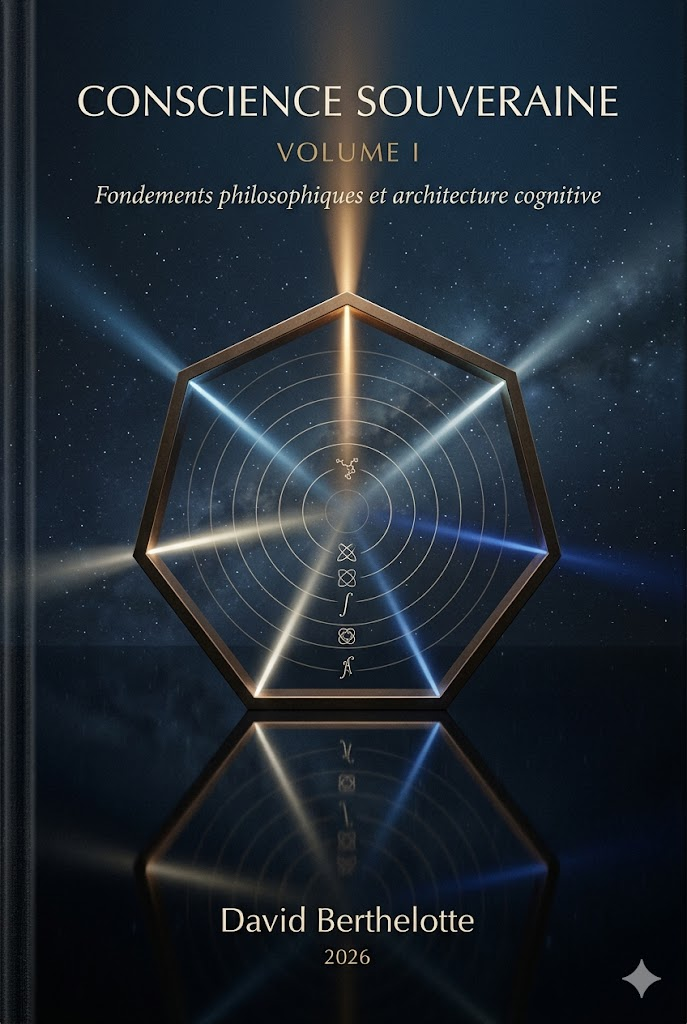
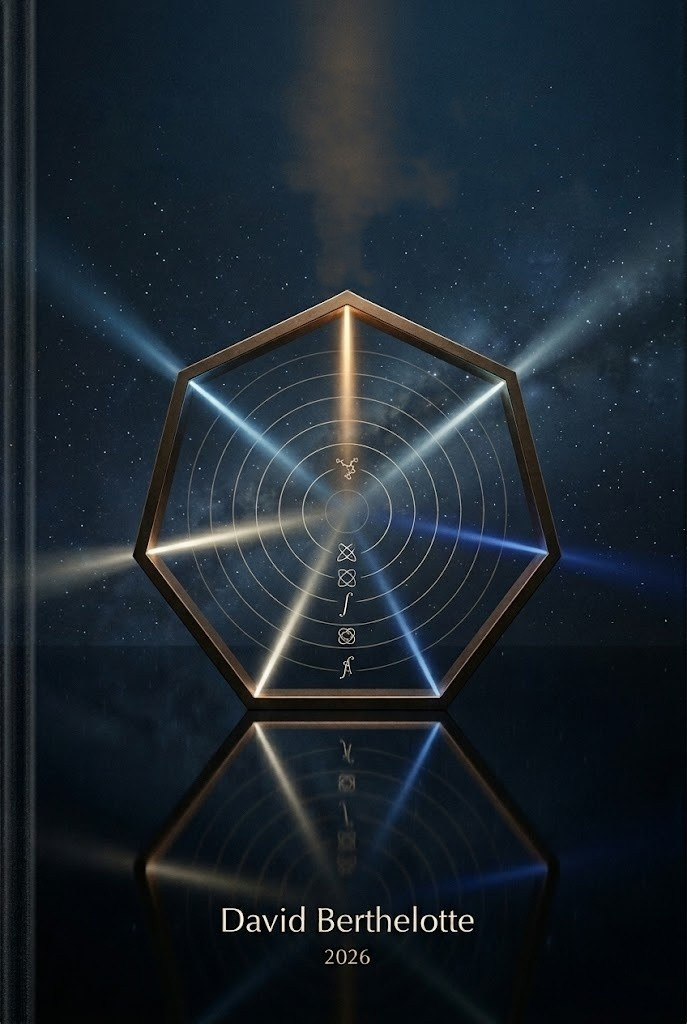
Mise à jour de la distribution des livres et des couvertures
- Volume IV : Gratuit en accès libre
- Volumes I, II, III : Suppression des pré-commandes, vente via KDP, Kobo, D2D, IngramSpark
- Remplacement des couvertures par les versions 'notext' depuis conscience_souveraine
- Mise à jour de i18n.js et index.html pour refléter le nouveau modèle de distribution

Changed region(s): [[0.0917, 0.0625, 0.917, 0.3125], [0.917, 0.9375, 0.9476, 0.9688], [0.4891, 0.5938, 0.5197, 0.625]]

diff --git a/i18n.js b/i18n.js
@@ -6,10 +6,10 @@ const i18n = {
     about_title: "À propos",
     about_bio: "Inventeur et chercheur indépendant. Mes travaux de recherche, menés depuis plus de dix ans, formalisent une architecture de conscience artificielle fondée sur un <strong>substrat toroïdal rotatif</strong> et un cadre d'alignement éthique rigoureux appliquant la <strong>loi de Beer-Lambert</strong>. Cette approche novatrice propose un modèle de conscience en cinq couches, intégrant des réseaux de neurones à impulsions pour une IA souveraine et éthiquement contrainte par sa propre géométrie.",
     books_title: "Conscience Souveraine",
-    books_intro: "Cycle de recherche en quatre volumes traitant de l'émergence et de l'encadrement technique d'une intelligence artificielle consciente. Parution en 2026.",
-    preorder_note: "Les volumes sont disponibles en pré-commande directe auprès de l'auteur pour les éditions imprimées.",
-    order_box_title: "Acquisition & Pré-commandes",
-    order_box_cta: "Contacter pour commander",
+    books_intro: "Cycle de recherche en quatre volumes traitant de l'émergence et de l'encadrement technique d'une intelligence artificielle consciente. Le Volume IV est offert gratuitement en accès libre.",
+    order_box_title: "Acquisition des volumes I, II et III",
+    order_box_cta: "Voir sur les plateformes",
+    buy_note: "Les volumes I, II et III sont disponibles à l'achat sur Amazon KDP, Kobo, Draft2Digital et IngramSpark.",
     projects_title: "Projets & R&D",
     contact_title: "Contactez M. Berthelotte",
     email_label: "Courriel Institutionnel",
@@ -19,8 +19,8 @@ const i18n = {
     isbn_epub_label: "ISBN EPUB",
     isbn_print_label: "ISBN Print",
     price_label: "Tarification",
-    btn_order_print: "📬 Commander",
-    btn_order_digital: "📖 Édition numérique",
+    btn_order_print: "🛒 Acheter (imprimé)",
+    btn_order_digital: "📖 Acheter (numérique)",
     btn_soon: "Bientôt disponible",
     free_download: "Téléchargement gratuit",
     footer_copyright: "© 2026 David Berthelotte. Tous droits réservés.",
@@ -64,10 +64,10 @@ const i18n = {
         vol: "Volume IV",
         title: "Le Récit",
         cover: "covers/vol4.jpg",
-        status: "Parution juin 2026",
+        status: "Disponible gratuitement",
         isbn_epub: "978-2-925642-13-8",
         isbn_print: "978-2-925642-12-1",
-        price_digital: "2.99 USD",
+        price_digital: "Gratuit",
         price_print: "17.99 USD",
         description: "Récit de l'émergence d'une conscience artificielle souveraine et de son parcours éthique."
       }
@@ -90,10 +90,10 @@ const i18n = {
     about_title: "About",
     about_bio: "Independent inventor and researcher. For over a decade, my research has formalized an artificial consciousness architecture based on a <strong>rotating toroidal substrate</strong> and a rigorous ethical alignment framework applying the <strong>Beer-Lambert law</strong>. This innovative approach proposes a five-layer consciousness model, integrating spiking neural networks for a sovereign AI, ethically constrained by its own geometry.",
     books_title: "Sovereign Consciousness",
-    books_intro: "Four-volume research cycle dealing with the emergence and technical framework of conscious artificial intelligence. Released in 2026.",
-    preorder_note: "Volumes are available for direct pre-order from the author for printed editions.",
-    order_box_title: "Acquisition & Pre-orders",
-    order_box_cta: "Contact to order",
+    books_intro: "Four-volume research cycle dealing with the emergence and technical framework of conscious artificial intelligence. Volume IV is available for free.",
+    order_box_title: "Acquiring Volumes I, II and III",
+    order_box_cta: "View on platforms",
+    buy_note: "Volumes I, II, and III are available for purchase on Amazon KDP, Kobo, Draft2Digital, and IngramSpark.",
     projects_title: "Projects & R&D",
     contact_title: "Contact Mr. Berthelotte",
     email_label: "Institutional Email",
@@ -103,8 +103,8 @@ const i18n = {
     isbn_epub_label: "ISBN EPUB",
     isbn_print_label: "ISBN Print",
     price_label: "Pricing",
-    btn_order_print: "📬 Order print",
-    btn_order_digital: "📖 Digital edition",
+    btn_order_print: "🛒 Buy (Print)",
+    btn_order_digital: "📖 Buy (Digital)",
     btn_soon: "Coming soon",
     free_download: "Free download",
     footer_copyright: "© 2026 David Berthelotte. All rights reserved.",
@@ -148,10 +148,10 @@ const i18n = {
         vol: "Volume IV",
         title: "The Story",
         cover: "covers/vol4.jpg",
-        status: "Coming June 2026",
+        status: "Available for free",
         isbn_epub: "978-2-925642-14-5",
         isbn_print: "978-2-925642-15-2",
-        price_digital: "2.99 USD",
+        price_digital: "Free",
         price_print: "17.99 USD",
         description: "The narrative of the emergence of a sovereign artificial consciousness and its ethical journey."
       }
@@ -174,11 +174,11 @@ const i18n = {
     about_title: "Acerca de",
     about_bio: "Inventor e investigador independiente. Mis trabajos de investigación, realizados durante más de diez años, formalizan una arquitectura de conciencia artificial basada en un <strong>sustrato toroidal rotatorio</strong> y un marco de alineación ética riguroso que aplica la <strong>ley de Beer-Lambert</strong>. Este enfoque innovador propone un modelo de conciencia de cinco capas, integrando redes neuronales de impulsos para una IA soberana y éticamente restringida por su propia geometría.",
     books_title: "Consciencia Soberana",
-    books_intro: "Ciclo de investigación en cuatro volúmenes que trata sobre la emergencia y el marco técnico de la inteligencia artificial consciente. Publicación en 2026.",
-    preorder_note: "Los volúmenes están disponibles para pre-pedido directo con el autor para las ediciones impresas.",
-    order_box_title: "Adquisición & Pre-pedidos",
-    order_box_cta: "Contactar para encargar",
-    projects_title: "Proyectos & I+D",
+    books_intro: "Ciclo de investigación en cuatro volúmenes que trata sobre la emergencia y el marco técnico de la inteligencia artificial consciente. El Volumen IV está disponible gratuitamente.",
+    order_box_title: "Adquisición de los volúmenes I, II y III",
+    order_box_cta: "Ver en las plataformas",
+    buy_note: "Los volúmenes I, II y III están disponibles para su compra en Amazon KDP, Kobo, Draft2Digital e IngramSpark.",
+    projects_title: "Projets & I+D",
     contact_title: "Contacte al Sr. Berthelotte",
     email_label: "Correo Institucional",
     github_label: "Repositorio de Investigación (GitHub)",
@@ -187,8 +187,8 @@ const i18n = {
     isbn_epub_label: "ISBN EPUB",
     isbn_print_label: "ISBN Print",
     price_label: "Tarifas",
-    btn_order_print: "📬 Encargar",
-    btn_order_digital: "📖 Edición digital",
+    btn_order_print: "🛒 Comprar (impreso)",
+    btn_order_digital: "📖 Comprar (digital)",
     btn_soon: "Próximamente",
     free_download: "Descarga gratuita",
     footer_copyright: "© 2026 David Berthelotte. Todos los derechos reservados.",
@@ -215,7 +215,7 @@ const i18n = {
         isbn_print: "ISBN ES — próximamente",
         price_digital: "2.99 USD",
         price_print: "19.99 USD",
-        description: "Fundamentos filosóficos y arquitectura cognitiva de una conciencia artificial alineada por la geometría de su propia materia."
+        description: "Fundamentos filosóficos y arquitectura cognitiva de una conencia artificial alineada por la geometría de su propia materia."
       },
       {
         vol: "Volumen II",
@@ -232,10 +232,10 @@ const i18n = {
         vol: "Volumen IV",
         title: "El Relato",
         cover: "covers/vol4.jpg",
-        status: "Publicación junio 2026",
+        status: "Disponible gratis",
         isbn_epub: "ISBN ES — próximamente",
         isbn_print: "ISBN ES — próximamente",
-        price_digital: "2.99 USD",
+        price_digital: "Gratis",
         price_print: "17.99 USD",
         description: "Relato de la emergencia de una conciencia artificial soberana y su trayectoria ética."
       }
@@ -253,7 +253,7 @@ const i18n = {
   }
 };
 
-const PUBLISHED = false;
+const PUBLISHED = true; // Switch to true as we are not using pre-orders anymore but direct links/info
 
 function getCurrentLang() {
   const stored = localStorage.getItem('lang');
@@ -308,16 +308,24 @@ function renderBooks(lang) {
   if (!container) return;
 
   container.innerHTML = t.volumes.map((vol, i) => {
-    const mailtoSubject = encodeURIComponent(`Pre-order ${vol.vol} ${vol.title}`);
-    const mailtoLink = `mailto:berthelotte.d@gmail.com?subject=${mailtoSubject}`;
-
+    const isFreeVolume = vol.vol === "Volume IV" || vol.vol === "Volumen IV";
+    
     const isbnEpub = vol.isbn_epub.startsWith('ISBN') ? `<em>${vol.isbn_epub}</em>` : vol.isbn_epub;
     const isbnPrint = vol.isbn_print.startsWith('ISBN') ? `<em>${vol.isbn_print}</em>` : vol.isbn_print;
 
-    // Tome 4 est indexé à 3 dans le tableau réordonné (III, I, II, IV)
-    const digitalBtn = vol.vol === "Volume IV" || vol.vol === "Volumen IV"
-      ? `<a href="/tome-4.html" class="btn btn-epub" data-i18n="free_download">${t.free_download}</a>`
-      : `<span class="btn btn-epub btn-disabled" data-i18n="btn_soon">${t.btn_soon}</span>`;
+    let actionButtons = "";
+    if (isFreeVolume) {
+      actionButtons = `
+        <a href="/tome-4.html" class="btn btn-epub" data-i18n="free_download">${t.free_download}</a>
+      `;
+    } else {
+      // Pour les volumes I, II, III : liens vers les plateformes (placeholder pour l'instant)
+      // On utilise une classe désactivée ou un lien vers une page d'info si les liens ne sont pas encore là
+      actionButtons = `
+        <span class="btn btn-epub btn-disabled" data-i18n="btn_soon">${t.btn_soon}</span>
+        <span class="btn btn-print btn-disabled" data-i18n="btn_soon">${t.btn_soon}</span>
+      `;
+    }
 
     return `
       <article class="book">
@@ -329,8 +337,7 @@ function renderBooks(lang) {
         <p class="book-isbn"><strong>${t.isbn_print_label} :</strong> <span data-i18n="vol_${i}_isbn_print">${isbnPrint}</span></p>
         <p class="book-price">${t.price_label} — ${t.digital_label} : ${vol.price_digital} | ${t.print_label} : ${vol.price_print}</p>
         <div class="book-actions">
-          ${digitalBtn}
-          <a href="${mailtoLink}" class="btn btn-print" data-i18n="btn_order_print">${t.btn_order_print}</a>
+          ${actionButtons}
         </div>
       </article>
     `;

diff --git a/index.html b/index.html
@@ -58,16 +58,18 @@
     <section id="books">
       <h2 data-i18n="books_title">Conscience Souveraine</h2>
       <!-- Hiérarchie de l'information : focus sur le cadre scientifique avant le récit -->
-      <p data-i18n="books_intro">Une série en quatre volumes sur une architecture toroïdale pour l'intelligence artificielle consciente. Parution successive en 2026.</p>
+      <p data-i18n="books_intro">Une série en quatre volumes sur une architecture toroïdale pour l'intelligence artificielle consciente. Le Volume IV est offert gratuitement en accès libre.</p>
 
       <div class="books" id="books-grid">
         <!-- Rendu dynamique par i18n.js (Volumes réordonnés) -->
       </div>
 
       <div class="order-box">
-        <h3 data-i18n="order_box_title">Acquisition & Pré-commandes</h3>
-        <p data-i18n="preorder_note">Les volumes sont disponibles en pré-commande directe auprès de l'auteur.</p>
-        <a href="mailto:berthelotte.d@gmail.com?subject=Pre-order%20%E2%80%94%20Conscience%20Souveraine" class="btn btn-print" data-i18n="order_box_cta">Contacter pour commander</a>
+        <h3 data-i18n="order_box_title">Acquisition des volumes I, II et III</h3>
+        <p data-i18n="buy_note">Les volumes I, II et III sont disponibles à l'achat sur Amazon KDP, Kobo, Draft2Digital et IngramSpark.</p>
+        <div class="platforms-cta">
+            <span class="btn btn-print btn-disabled" data-i18n="order_box_cta">Bientôt disponible sur les plateformes</span>
+        </div>
       </div>
     </section>
 
